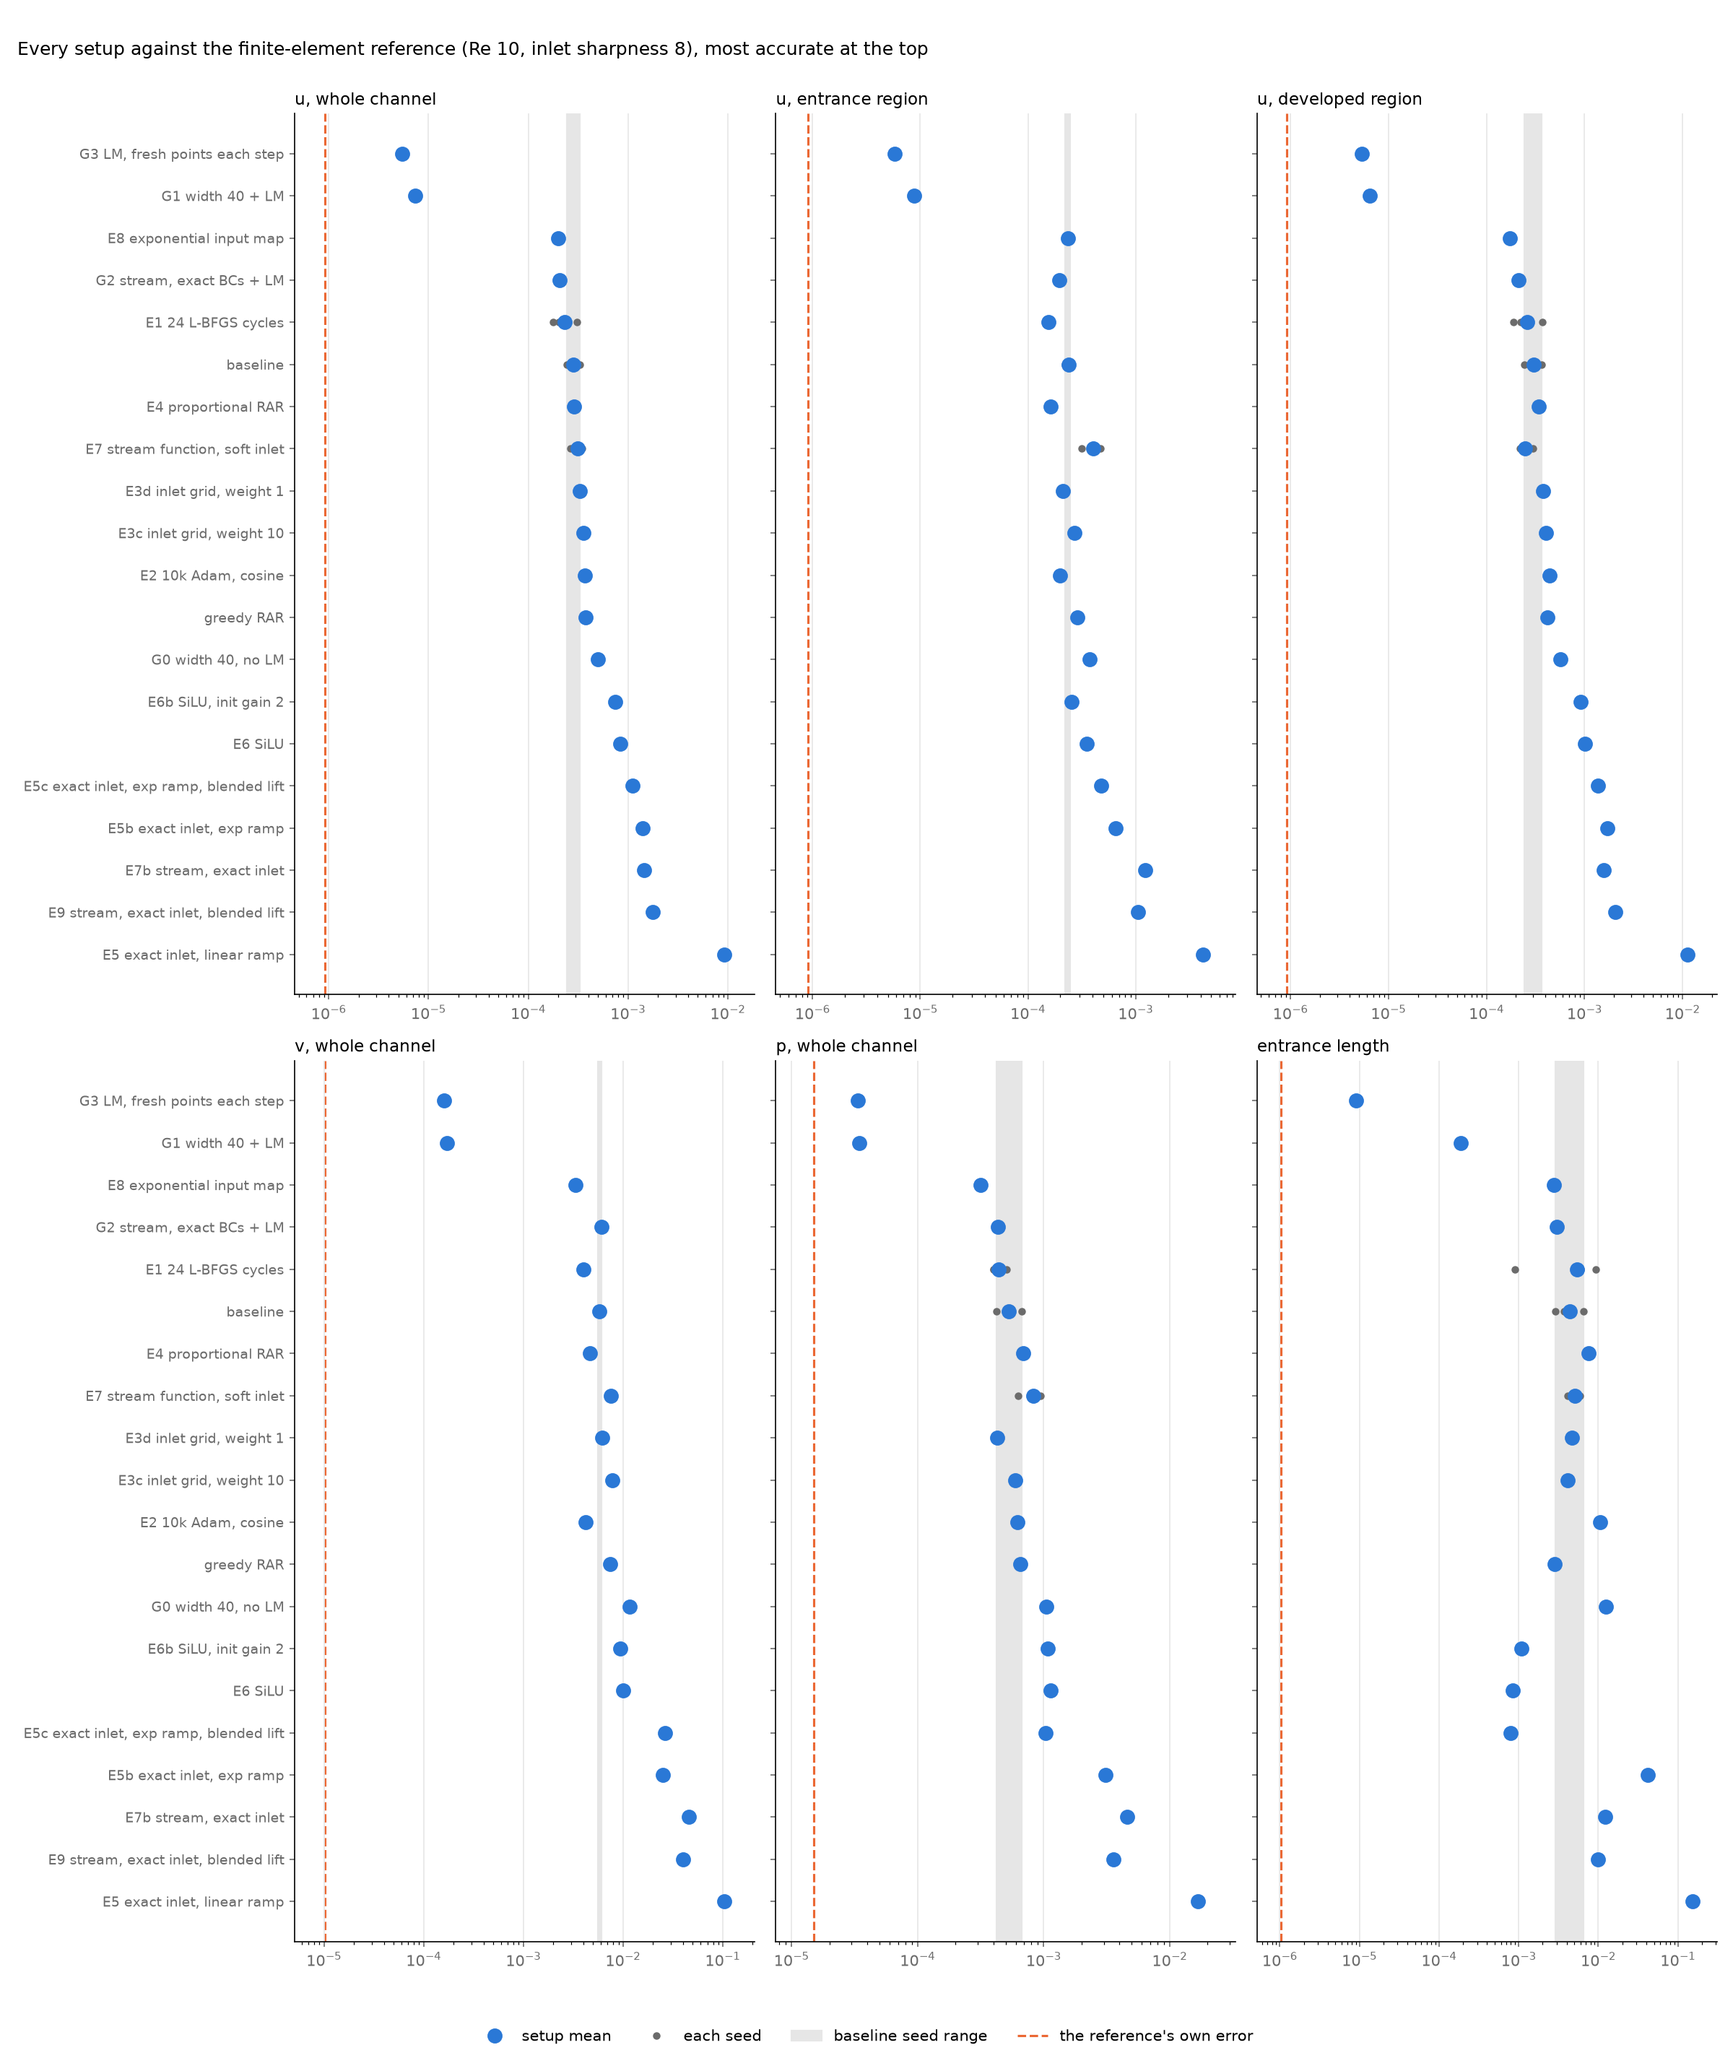
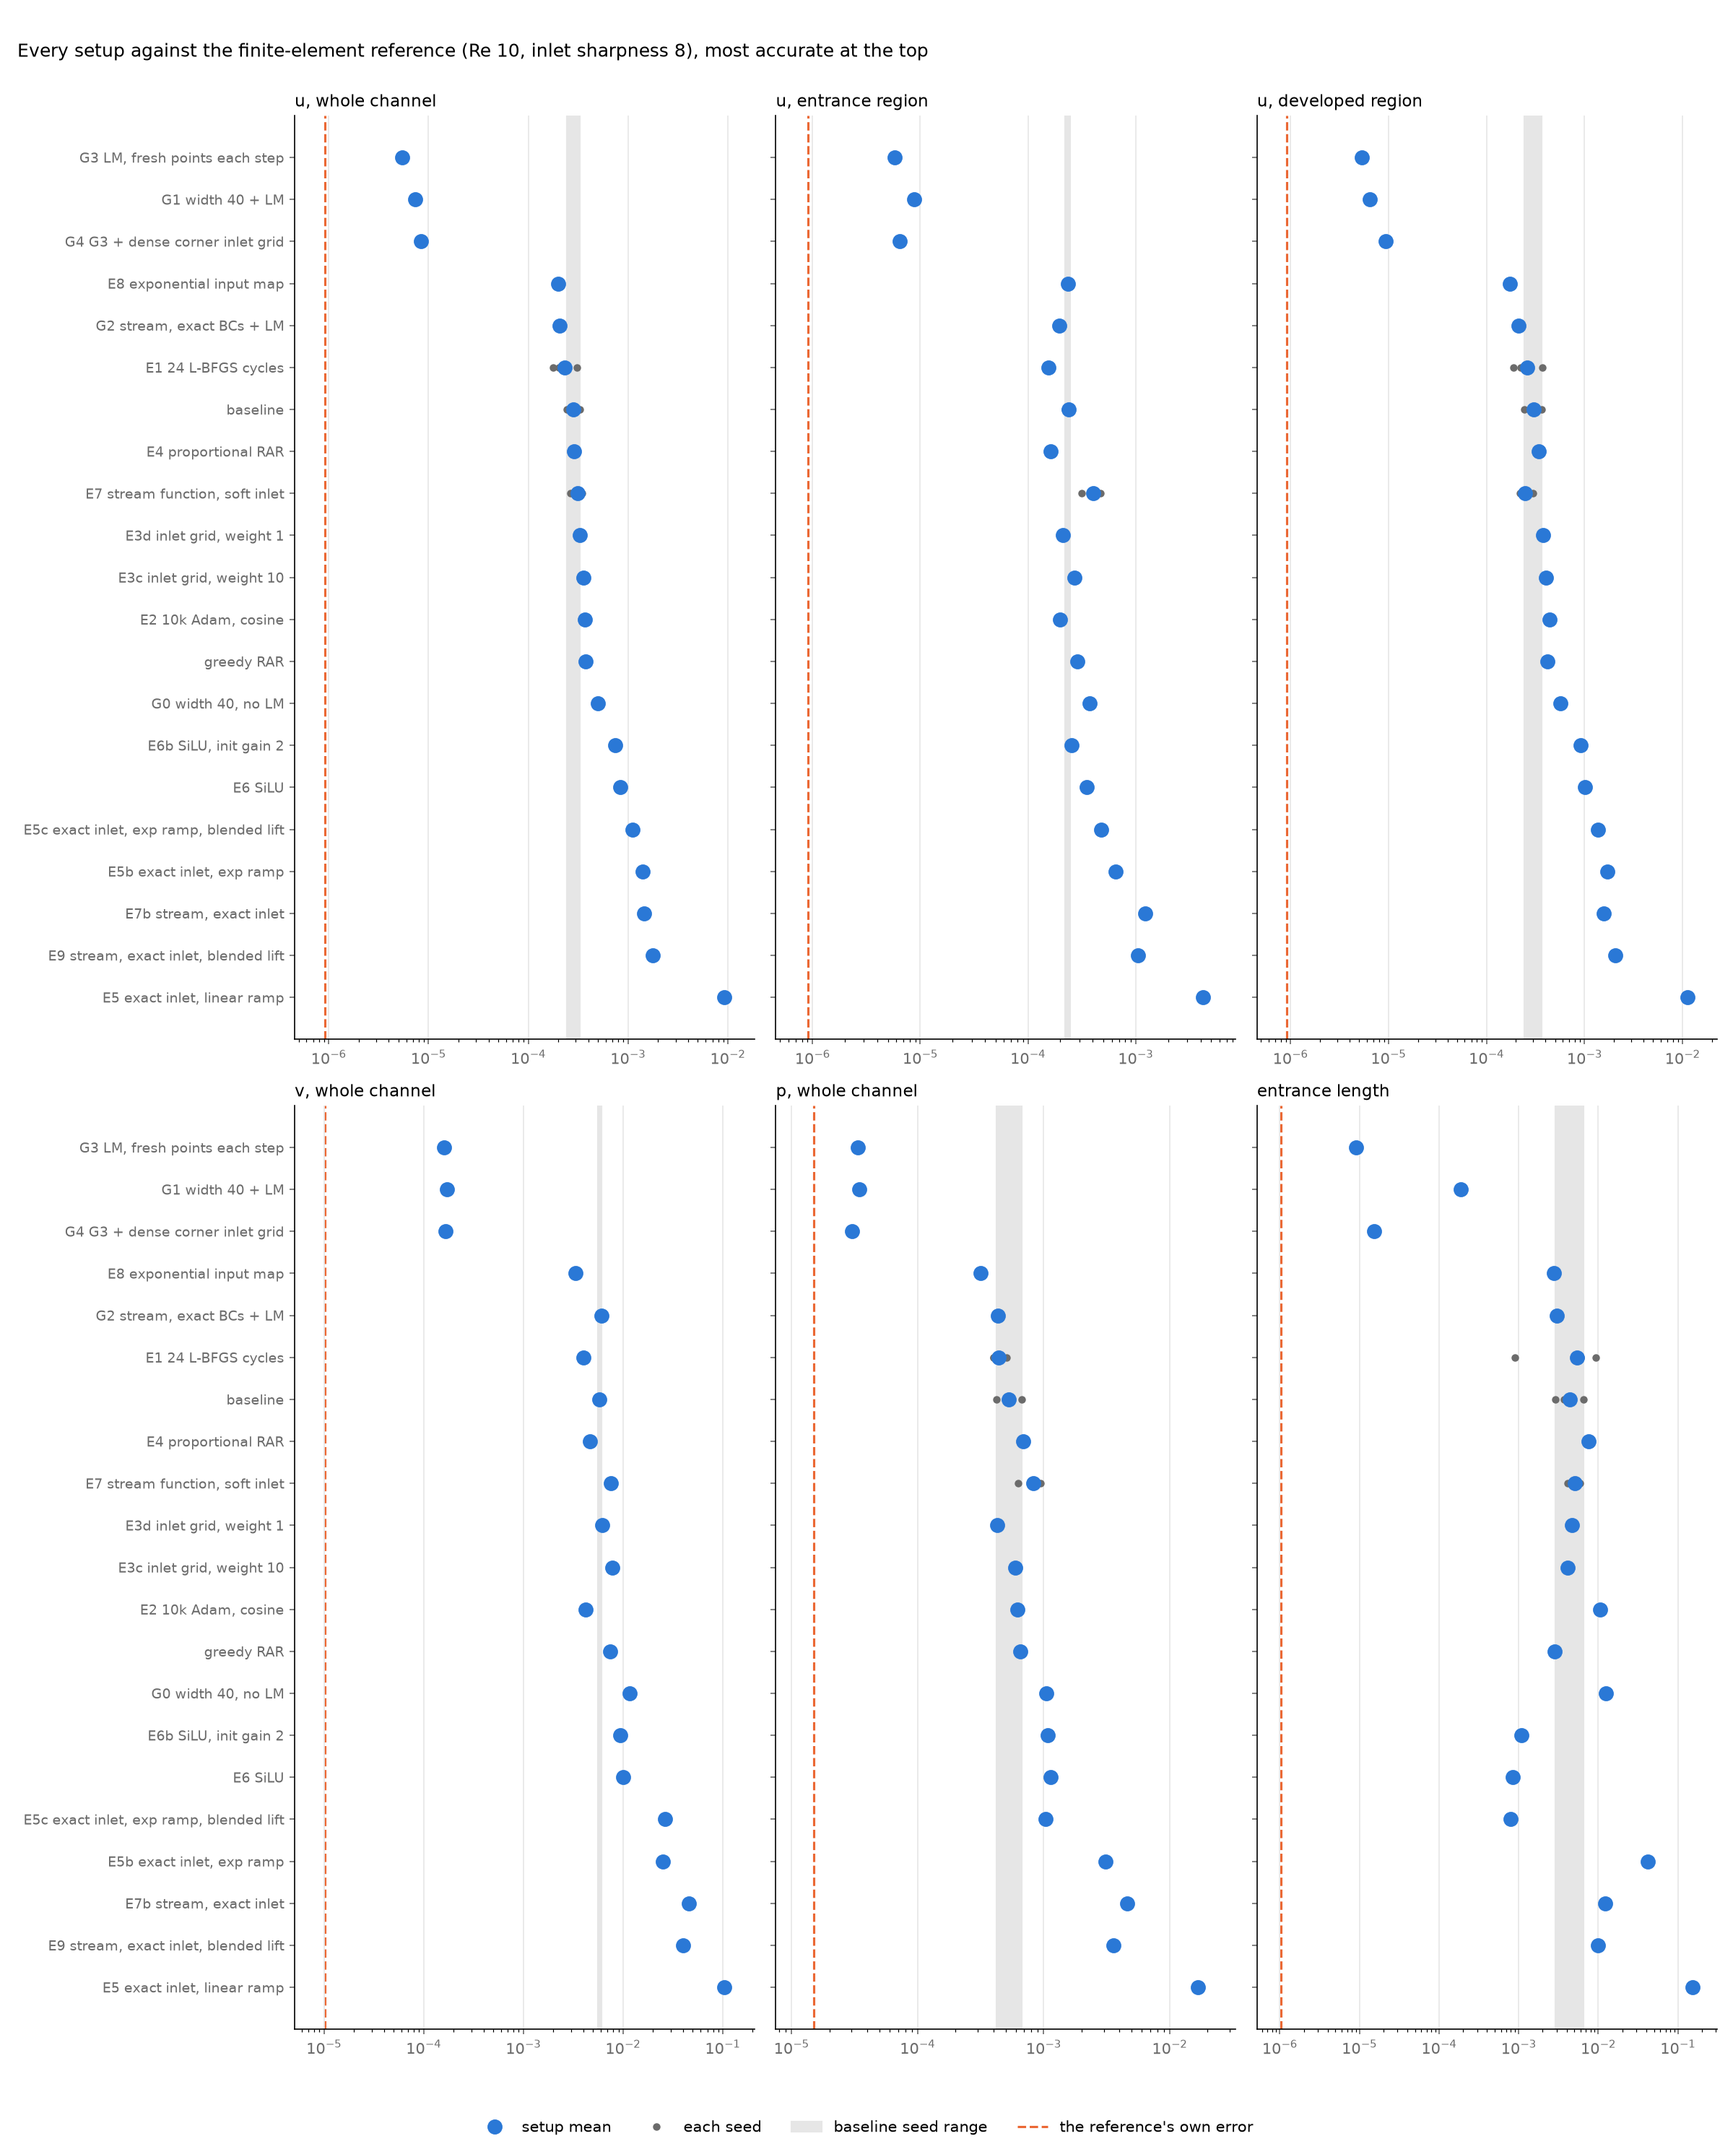
Add G4 to the summary of every run against the reference
Claude-Session: https://claude.ai/code/session_01AbTrWc9Te1W9eJvisv3vV1

diff --git a/docs/developing_re10-summary.md b/docs/developing_re10-summary.md
@@ -6,6 +6,7 @@ Relative L2 errors (entrance length: relative error). Several seeds: mean (range
 |---|---|---|---|---|---|---|---|---|
 | G3 LM, fresh points each step | 1 | 5.50e-06 | 5.77e-06 | 5.33e-06 | 1.59e-04 | 3.37e-05 | 9.12e-06 | 206 |
 | G1 width 40 + LM | 1 | 7.42e-06 | 8.81e-06 | 6.47e-06 | 1.72e-04 | 3.44e-05 | 1.87e-04 | 123 |
+| G4 G3 + dense corner inlet grid | 1 | 8.37e-06 | 6.40e-06 | 9.34e-06 | 1.67e-04 | 3.02e-05 | 1.52e-05 | 229 |
 | E8 exponential input map | 1 | 1.98e-04 | 2.35e-04 | 1.73e-04 | 3.34e-03 | 3.17e-04 | 2.77e-03 | 51 |
 | G2 stream, exact BCs + LM | 1 | 2.06e-04 | 1.96e-04 | 2.12e-04 | 6.06e-03 | 4.34e-04 | 2.98e-03 | 112 |
 | E1 24 L-BFGS cycles | 3 | 2.30e-04 (1.8e-04 to 3.1e-04) | 1.54e-04 (1.4e-04 to 1.6e-04) | 2.62e-04 (1.9e-04 to 3.7e-04) | 3.99e-03 (3.8e-03 to 4.1e-03) | 4.37e-04 (4.0e-04 to 5.1e-04) | 5.37e-03 (9.0e-04 to 9.2e-03) | 81 |
